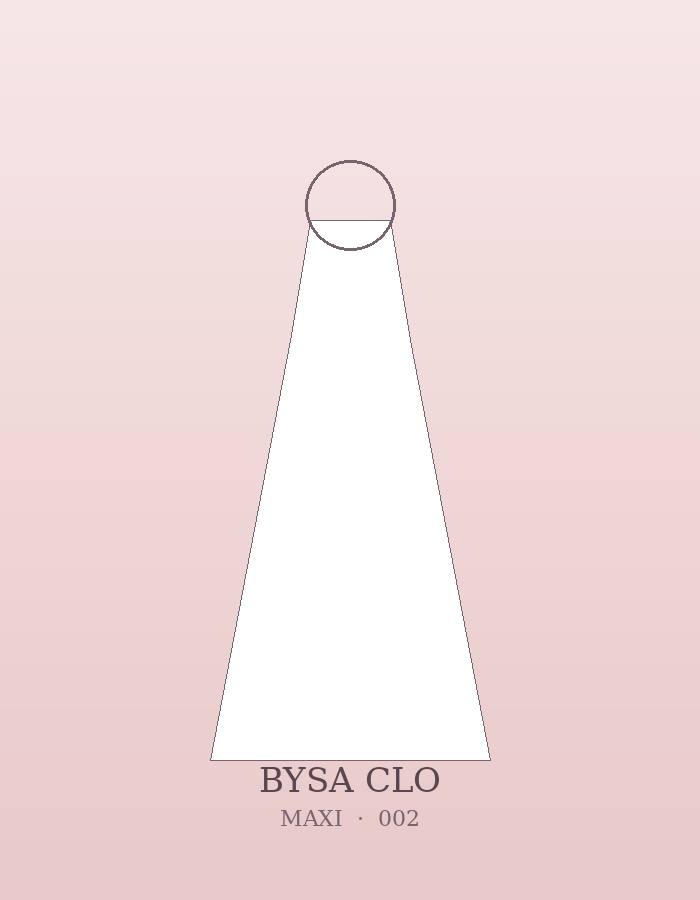
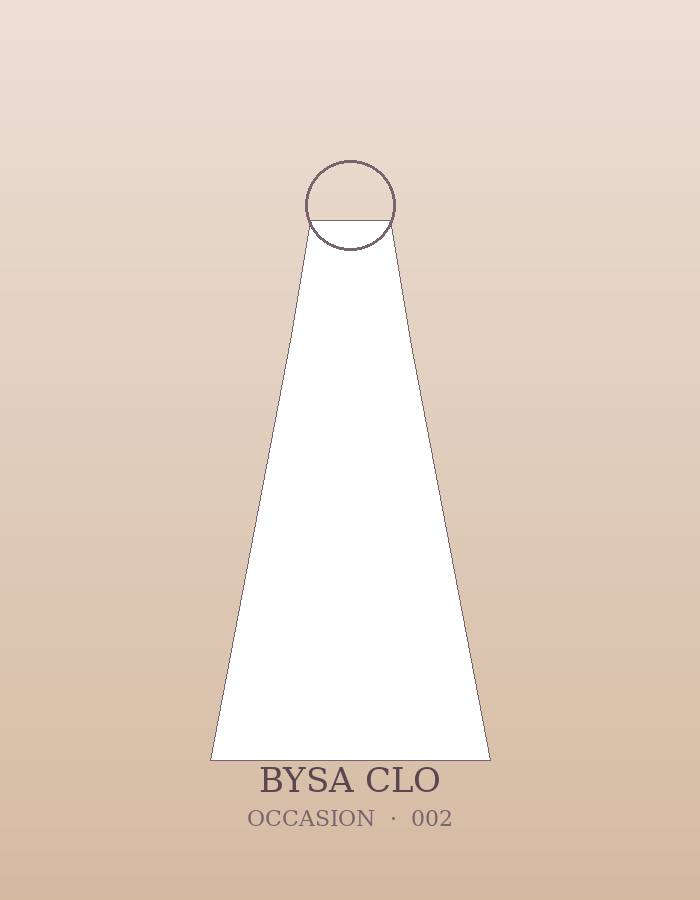
Update catalog with 29 real products, prices, and descriptions

diff --git a/products.js b/products.js
@@ -1,44 +1,46 @@
 // BYSA CLO — Product Catalog Data
-// Edit this file to update products. Replace placeholder images in the
-// images folder with real photos named product-001.jpg ... product-026.jpg
-// (or update the "image" field below to match your filenames).
+// Sourced from @bysa.clo Instagram. Images are placeholders — replace
+// product-001.jpg ... product-029.jpg with real photos (same filenames)
+// whenever you have clean shots ready.
 
 const PRODUCTS = [
-  { id: 1,  name: "Aurora Maxi Dress",        collection: "maxi",       price: 3499, image: "product-001.jpg", description: "A flowing floor-length maxi with a soft empire waist and dreamy floral print, cut for effortless movement.", fabric: "Georgette", sizes: ["XS","S","M","L","XL"] },
-  { id: 2,  name: "Ivory Bloom Maxi",          collection: "maxi",       price: 3799, image: "product-002.jpg", description: "Romantic ivory maxi with delicate bloom embroidery along the neckline and flutter sleeves.", fabric: "Chiffon", sizes: ["S","M","L","XL"] },
-  { id: 3,  name: "Twilight Wrap Maxi",        collection: "maxi",       price: 3999, image: "product-003.jpg", description: "A wrap-style maxi in deep twilight blue, cinched at the waist for a flattering silhouette.", fabric: "Crepe", sizes: ["XS","S","M","L"] },
-  { id: 4,  name: "Sunset Tiered Maxi",        collection: "maxi",       price: 3599, image: "product-004.jpg", description: "Tiered ruffle maxi in warm sunset tones, perfect for golden-hour occasions.", fabric: "Georgette", sizes: ["S","M","L","XL"] },
-  { id: 5,  name: "Pearl Bodycon",             collection: "bodycon",    price: 2899, image: "product-005.jpg", description: "Figure-hugging pearl-toned bodycon with a subtle sheen, designed to flatter every curve.", fabric: "Scuba Knit", sizes: ["XS","S","M","L"] },
-  { id: 6,  name: "Noir Ribbed Bodycon",       collection: "bodycon",    price: 2699, image: "product-006.jpg", description: "Classic black ribbed bodycon with a sweetheart neckline — a timeless staple.", fabric: "Ribbed Knit", sizes: ["S","M","L"] },
-  { id: 7,  name: "Rosewood Bodycon",          collection: "bodycon",    price: 2999, image: "product-007.jpg", description: "Deep rosewood bodycon with cutout waist detail for an elevated evening look.", fabric: "Satin", sizes: ["XS","S","M","L","XL"] },
-  { id: 8,  name: "Champagne Shine Bodycon",   collection: "bodycon",    price: 3199, image: "product-008.jpg", description: "Champagne shimmer bodycon designed for statement nights out.", fabric: "Lurex Knit", sizes: ["S","M","L"] },
-  { id: 9,  name: "Everyday Linen Mini",       collection: "mini",       price: 1999, image: "product-009.jpg", description: "Breezy linen mini with a relaxed fit — perfect for casual daytime wear.", fabric: "Linen Blend", sizes: ["XS","S","M","L","XL"] },
-  { id: 10, name: "Gingham Sunday Mini",       collection: "mini",       price: 2199, image: "product-010.jpg", description: "Playful gingham mini with puff sleeves and a cinched waist tie.", fabric: "Cotton", sizes: ["S","M","L"] },
-  { id: 11, name: "Blush Halter Mini",         collection: "mini",       price: 2399, image: "product-011.jpg", description: "Soft blush halter-neck mini with a fitted bodice and flared skirt.", fabric: "Crepe", sizes: ["XS","S","M","L"] },
-  { id: 12, name: "Denim Button Mini",         collection: "mini",       price: 2099, image: "product-012.jpg", description: "Classic denim button-front mini dress for an effortless everyday edit.", fabric: "Denim", sizes: ["S","M","L","XL"] },
-  { id: 13, name: "Soft Days Casual",          collection: "casual",     price: 1799, image: "product-013.jpg", description: "Lightweight everyday dress in a soft muted palette, designed for all-day comfort.", fabric: "Cotton Blend", sizes: ["XS","S","M","L","XL"] },
-  { id: 14, name: "Weekend Wrap Casual",       collection: "casual",     price: 1899, image: "product-014.jpg", description: "Easy wrap-style casual dress that transitions from errands to brunch.", fabric: "Rayon", sizes: ["S","M","L"] },
-  { id: 15, name: "Picnic Puff Sleeve",        collection: "casual",     price: 2099, image: "product-015.jpg", description: "Puff-sleeve casual dress with a cinched waist, made for slow afternoons.", fabric: "Cotton", sizes: ["XS","S","M","L"] },
-  { id: 16, name: "City Stroll Shirt Dress",   collection: "casual",     price: 2199, image: "product-016.jpg", description: "Relaxed shirt-dress silhouette with a tie belt — a wardrobe essential.", fabric: "Poplin", sizes: ["S","M","L","XL"] },
-  { id: 17, name: "Golden Hour Occasion Gown", collection: "occasion",   price: 4999, image: "product-017.jpg", description: "Statement occasion gown with a fitted bodice and dramatic flowing train.", fabric: "Satin", sizes: ["XS","S","M","L"] },
-  { id: 18, name: "Emerald Evening Gown",      collection: "occasion",   price: 5299, image: "product-018.jpg", description: "Rich emerald gown with a thigh-high slit, made for red-carpet moments.", fabric: "Velvet", sizes: ["S","M","L"] },
-  { id: 19, name: "Midnight Sequin Occasion",  collection: "occasion",   price: 5499, image: "product-019.jpg", description: "All-over sequin occasion dress that catches the light with every move.", fabric: "Sequin Mesh", sizes: ["XS","S","M","L","XL"] },
-  { id: 20, name: "Blush Tulle Occasion",      collection: "occasion",   price: 4799, image: "product-020.jpg", description: "Dreamy blush tulle gown with a corseted bodice, built for milestone nights.", fabric: "Tulle", sizes: ["S","M","L"] },
-  { id: 21, name: "Made-For-You Bridal Blush", collection: "customized", price: 6499, image: "product-021.jpg", description: "Fully customizable bridal-inspired piece — tell us your measurements, colors and embellishments.", fabric: "Made to Order", sizes: ["Custom"] },
-  { id: 22, name: "Signature Monogram Maxi",   collection: "customized", price: 4299, image: "product-022.jpg", description: "Your maxi, your way — choose fabric, color and add a hand-embroidered monogram.", fabric: "Made to Order", sizes: ["Custom"] },
-  { id: 23, name: "Bespoke Bodycon Edit",      collection: "customized", price: 3699, image: "product-023.jpg", description: "A bodycon silhouette tailored to your exact fit and favorite shade.", fabric: "Made to Order", sizes: ["Custom"] },
-  { id: 24, name: "Custom Occasion Statement", collection: "customized", price: 5999, image: "product-024.jpg", description: "Design your dream occasion piece with us — fully personalized from sketch to stitch.", fabric: "Made to Order", sizes: ["Custom"] },
-  { id: 25, name: "Personalized Casual Set",   collection: "customized", price: 2599, image: "product-025.jpg", description: "Everyday dress customized in your chosen colorway and fit preferences.", fabric: "Made to Order", sizes: ["Custom"] },
-  { id: 26, name: "Custom Mini Edit",          collection: "customized", price: 2899, image: "product-026.jpg", description: "A mini dress designed around your vision — fabric, length and detailing all your choice.", fabric: "Made to Order", sizes: ["Custom"] }
+  { id: 1,  name: "Navy Satin Wrap Robe Dress",              collection: "casual",     price: 2600, image: "product-001.jpg", description: "Deep navy satin robe-style dress with a tie-front silhouette and a soft sheen. Relaxed, elegant drape for effortless everyday wear.", fabric: "Satin", sizes: ["XS","S","M","L","XL"] },
+  { id: 2,  name: "Berry Ballgown \"Disney Princess\" Dress", collection: "occasion",   price: 2600, image: "product-002.jpg", description: "Fitted berry/magenta satin bodice with structured puff sleeves flowing into a dramatic, voluminous full skirt. A true statement gown.", fabric: "Satin", sizes: ["XS","S","M","L"] },
+  { id: 3,  name: "Rust Terracotta Abaya Set",                collection: "customized", price: 2400, image: "product-003.jpg", description: "Oversized-sleeve rust terracotta abaya with a matching flowing hijab, made to order and tailored to you.", fabric: "Cotton Blend", sizes: ["Custom"] },
+  { id: 4,  name: "Mustard Gold Draped Kaftan",                collection: "customized", price: 2300, image: "product-004.jpg", description: "Mustard gold kaftan with soft ruched draping at the waist, a relaxed silhouette, and a matching hijab. Custom made.", fabric: "Viscose", sizes: ["Custom"] },
+  { id: 5,  name: "Steel Blue Satin Peplum Co-ord",            collection: "casual",     price: 3500, image: "product-005.jpg", description: "Two-piece set in steel blue satin: a cropped peplum-style top paired with a long, flowy matching skirt.", fabric: "Satin", sizes: ["XS","S","M","L"] },
+  { id: 6,  name: "Rose Pink Two-Piece with Marble Dupatta",   collection: "casual",     price: 2100, image: "product-006.jpg", description: "High-low peplum top with flared bell sleeves in rose pink, paired with a flowy rose maxi skirt and an abstract marble-print dupatta.", fabric: "Crepe", sizes: ["XS","S","M","L"], soldOut: true },
+  { id: 7,  name: "White Polka Dot Bell-Sleeve Maxi",          collection: "maxi",       price: 2300, image: "product-007.jpg", description: "Long bell sleeves, allover black polka dot print on white, flowing full-length maxi skirt. Sold as a skirt + top set.", fabric: "Cotton", sizes: ["XS","S","M","L"] },
+  { id: 8,  name: "White Polka Dot Corset-Back Midi",          collection: "mini",       price: 2300, image: "product-008.jpg", description: "Puff sleeves with lace-up corset detailing on the back and a tea-length flared skirt, in the same polka dot fabric. Sold as a skirt + top set.", fabric: "Cotton", sizes: ["XS","S","M","L"] },
+  { id: 9,  name: "Pale Yellow Chiffon Dress",                 collection: "casual",     price: 2900, image: "product-009.jpg", description: "Soft pale yellow chiffon with oversized flowy sleeves and a relaxed maxi silhouette. Light and airy.", fabric: "Chiffon", sizes: ["XS","S","M","L","XL"] },
+  { id: 10, name: "Wine Burgundy Twirl Dress",                 collection: "occasion",   price: 2800, image: "product-010.jpg", description: "Deep wine dress with puff sleeves and a fitted bodice flowing into a full circle skirt — beautiful movement in motion.", fabric: "Satin", sizes: ["XS","S","M","L"] },
+  { id: 11, name: "Powder Blue \"Cinderella\" Gown",           collection: "occasion",   price: 2800, image: "product-011.jpg", description: "Pale powder-blue gown with a soft, voluminous skirt that catches the wind beautifully. Pure fairytale energy.", fabric: "Satin", sizes: ["XS","S","M","L"] },
+  { id: 12, name: "Cream Lace-Sleeve Dress",                   collection: "occasion",   price: 2700, image: "product-012.jpg", description: "Cream dress with delicate lace trim detailing along the sleeves for a soft, romantic finish.", fabric: "Satin & Lace", sizes: ["XS","S","M","L"] },
+  { id: 13, name: "Soft Pink Tie-Waist Maxi",                  collection: "maxi",       price: 2100, image: "product-013.jpg", description: "Blush pink flowy maxi with a tie-waist and long sleeves. One of our most-loved everyday styles.", fabric: "Crepe", sizes: ["XS","S","M","L","XL"] },
+  { id: 14, name: "Chartreuse Olive Satin Dress",              collection: "maxi",       price: 2100, image: "product-014.jpg", description: "Long-sleeve satin dress in a chartreuse olive-yellow tone with a flowy maxi skirt.", fabric: "Satin", sizes: ["XS","S","M","L"] },
+  { id: 15, name: "Butter Yellow Oversized Kaftan",            collection: "customized", price: 2100, image: "product-015.jpg", description: "Soft butter-yellow oversized kaftan with relaxed dropped-shoulder sleeves. Custom made to order.", fabric: "Viscose", sizes: ["Custom"] },
+  { id: 16, name: "Black Leopard-Print Skirt",                 collection: "casual",     price: 1200, image: "product-016.jpg", description: "A flowing leopard-print maxi skirt that pairs easily with any top — an instant wardrobe favorite.", fabric: "Crepe", sizes: ["XS","S","M","L","XL"] },
+  { id: 17, name: "Coral Rust Ruffled-Sleeve Abaya",           collection: "occasion",   price: 2100, image: "product-017.jpg", description: "Rust coral abaya with dramatic ruffled bell sleeves and a full flowing skirt. One of our most-loved designs.", fabric: "Crepe", sizes: ["XS","S","M","L"] },
+  { id: 18, name: "Soft Yellow Flowy Dress",                   collection: "customized", price: 2100, image: "product-018.jpg", description: "Pale yellow flowy dress with dropped shoulders and relaxed sleeves. Can be made to order in a different color.", fabric: "Chiffon", sizes: ["Custom"] },
+  { id: 19, name: "White Oversized Abaya with Leopard Scarf",  collection: "casual",     price: 2800, image: "product-019.jpg", description: "Cream white relaxed abaya with dropped shoulders and a floor-length silhouette, paired with a leopard-print scarf.", fabric: "Cotton Blend", sizes: ["XS","S","M","L","XL"] },
+  { id: 20, name: "Royal Blue Pearl-Trim Satin Dress",         collection: "occasion",   price: 1900, image: "product-020.jpg", description: "Rich royal blue satin in a flowy silhouette with a row of pearl button detailing down the sleeve. A fan favorite.", fabric: "Satin", sizes: ["XS","S","M","L"] },
+  { id: 21, name: "Cream & Grey Two-Tone Dress",               collection: "casual",     price: 1900, image: "product-021.jpg", description: "Cream bodice with a soft grey side drape for a relaxed, flowy two-tone finish.", fabric: "Crepe", sizes: ["XS","S","M","L"] },
+  { id: 22, name: "Wine Ruffled Satin Dress with Pearl Belt",  collection: "occasion",   price: 2200, image: "product-022.jpg", description: "Deep wine satin dress with a cascading ruffle panel down the front and a pearled belt at the waist.", fabric: "Satin", sizes: ["XS","S","M","L"] },
+  { id: 23, name: "Pink Robe Birthday Dress",                  collection: "customized", price: 2100, image: "product-023.jpg", description: "Soft pink wrap-style robe dress with wide relaxed sleeves and a drawstring waist. A best-selling custom piece.", fabric: "Satin", sizes: ["Custom"] },
+  { id: 24, name: "Pink Beaded Ballgown",                      collection: "customized", price: 2600, image: "product-024.jpg", description: "Off-shoulder corset bodice with beaded embroidery detailing, dramatic sleeves, and a full satin ballgown skirt.", fabric: "Satin", sizes: ["Custom"] },
+  { id: 25, name: "Dusty Pink Gold-Trim Flowy Dress",          collection: "customized", price: 2100, image: "product-025.jpg", description: "Dusty mauve-pink satin with gold trim along the edges and oversized flowy sleeves.", fabric: "Satin", sizes: ["Custom"] },
+  { id: 26, name: "Bright Yellow Tiered Ruffle Dress",         collection: "maxi",       price: 2100, image: "product-026.jpg", description: "Bold yellow dress with a tiered ruffled skirt and side drawstring-bow ties at the waist.", fabric: "Cotton", sizes: ["XS","S","M","L","XL"] },
+  { id: 27, name: "Maroon Satin Dress",                        collection: "maxi",       price: 2200, image: "product-027.jpg", description: "Deep maroon satin dress with puff sleeves — quiet, elegant everyday luxury.", fabric: "Satin", sizes: ["XS","S","M","L"] },
+  { id: 28, name: "White Sheer Chiffon Twirl Dress",           collection: "occasion",   price: 2100, image: "product-028.jpg", description: "Flowing white sheer chiffon dress with beautiful movement — made for twirling.", fabric: "Chiffon", sizes: ["XS","S","M","L"] },
+  { id: 29, name: "Wine Velvet Dress with Beaded Belt",        collection: "occasion",   price: 2200, image: "product-029.jpg", description: "Deep wine dress with a delicate beaded waist belt and puff sleeves. Perfect for a special dinner.", fabric: "Velvet", sizes: ["XS","S","M","L","XL"] }
 ];
 
 const COLLECTIONS = [
   { key: "all",        label: "All" },
   { key: "maxi",        label: "Maxi" },
-  { key: "bodycon",     label: "Bodycon" },
-  { key: "mini",        label: "Mini" },
-  { key: "casual",      label: "Casual" },
   { key: "occasion",    label: "Occasion" },
+  { key: "casual",      label: "Casual" },
+  { key: "mini",        label: "Mini" },
   { key: "customized",  label: "Customized" }
 ];
 

diff --git a/main.js b/main.js
@@ -20,14 +20,15 @@ document.addEventListener('DOMContentLoaded', () => {
 
   function cardHTML(p){
     return `
-      <div class="card" data-collection="${p.collection}" data-id="${p.id}">
+      <div class="card${p.soldOut ? ' sold-out' : ''}" data-collection="${p.collection}" data-id="${p.id}">
         <div class="card-media">
           <span class="card-tag">${p.collection}</span>
+          ${p.soldOut ? '<span class="card-tag card-tag-soldout">Sold Out</span>' : ''}
           <img src="${p.image}" alt="${p.name}" loading="lazy">
         </div>
         <div class="card-body">
           <h3>${p.name}</h3>
-          <div class="card-price">${money(p.price)}</div>
+          <div class="card-price">${p.soldOut ? 'Sold Out' : money(p.price)}</div>
           <span class="card-cta">View details →</span>
         </div>
       </div>`;
@@ -65,16 +66,18 @@ document.addEventListener('DOMContentLoaded', () => {
       <button class="modal-close" id="modalClose">&times;</button>
       <div class="modal-media"><img src="${p.image}" alt="${p.name}"></div>
       <div class="modal-info">
-        <div class="tag">${p.collection}</div>
+        <div class="tag">${p.collection}${p.soldOut ? ' · Sold Out' : ''}</div>
         <h3>${p.name}</h3>
-        <div class="modal-price">${money(p.price)}</div>
+        <div class="modal-price">${p.soldOut ? 'Sold Out' : money(p.price)}</div>
         <p class="modal-desc">${p.description}</p>
         <div class="modal-meta"><strong>Fabric:</strong> ${p.fabric}</div>
         <div class="modal-meta"><strong>Sizes</strong></div>
         <div class="modal-sizes">${p.sizes.map(s => `<span class="size-pill">${s}</span>`).join('')}</div>
         <div class="modal-actions">
-          <a class="btn btn-primary" target="_blank" rel="noopener" href="${INSTAGRAM_URL}">Order on Instagram</a>
-          <a class="btn btn-outline" target="_blank" rel="noopener" href="https://instagram.com/direct/new/?text=${encodeURIComponent('Hi! I am interested in the ' + p.name)}">DM to Enquire</a>
+          ${p.soldOut
+            ? `<a class="btn btn-outline" target="_blank" rel="noopener" href="https://instagram.com/direct/new/?text=${encodeURIComponent('Hi! Will the ' + p.name + ' be restocked?')}">Ask About Restock</a>`
+            : `<a class="btn btn-primary" target="_blank" rel="noopener" href="${INSTAGRAM_URL}">Order on Instagram</a>
+          <a class="btn btn-outline" target="_blank" rel="noopener" href="https://instagram.com/direct/new/?text=${encodeURIComponent('Hi! I am interested in the ' + p.name)}">DM to Enquire</a>`}
         </div>
       </div>`;
     modalOverlay.classList.add('open');

diff --git a/style.css b/style.css
@@ -154,6 +154,11 @@ img{max-width:100%; display:block;}
   margin-top:12px; display:inline-block; font-size:0.85rem; letter-spacing:0.08em;
   text-transform:uppercase; color:var(--text-soft); border-bottom:1px solid var(--line); padding-bottom:2px;
 }
+.card-tag-soldout{
+  left:auto; right:12px; background:rgba(58,44,47,0.85); color:#fff;
+}
+.card.sold-out .card-media img{ filter:grayscale(35%) brightness(0.92); }
+.card.sold-out .card-price{ color:var(--text-soft); }
 
 /* About / Brand section */
 .about{

diff --git a/index.html b/index.html
@@ -75,7 +75,7 @@
   <div class="modal" id="modalBody"></div>
 </div>
 
-<script src="products.js?v=2"></script>
-<script src="main.js?v=2"></script>
+<script src="products.js?v=3"></script>
+<script src="main.js?v=3"></script>
 </body>
 </html>
